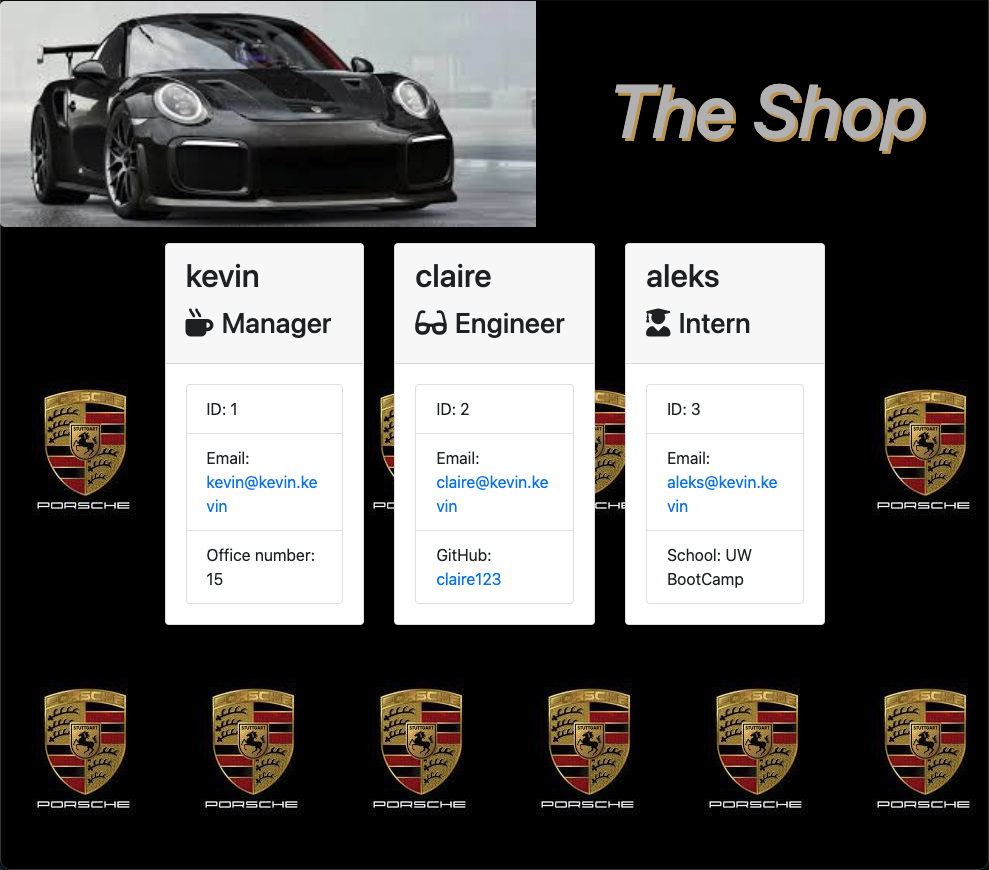
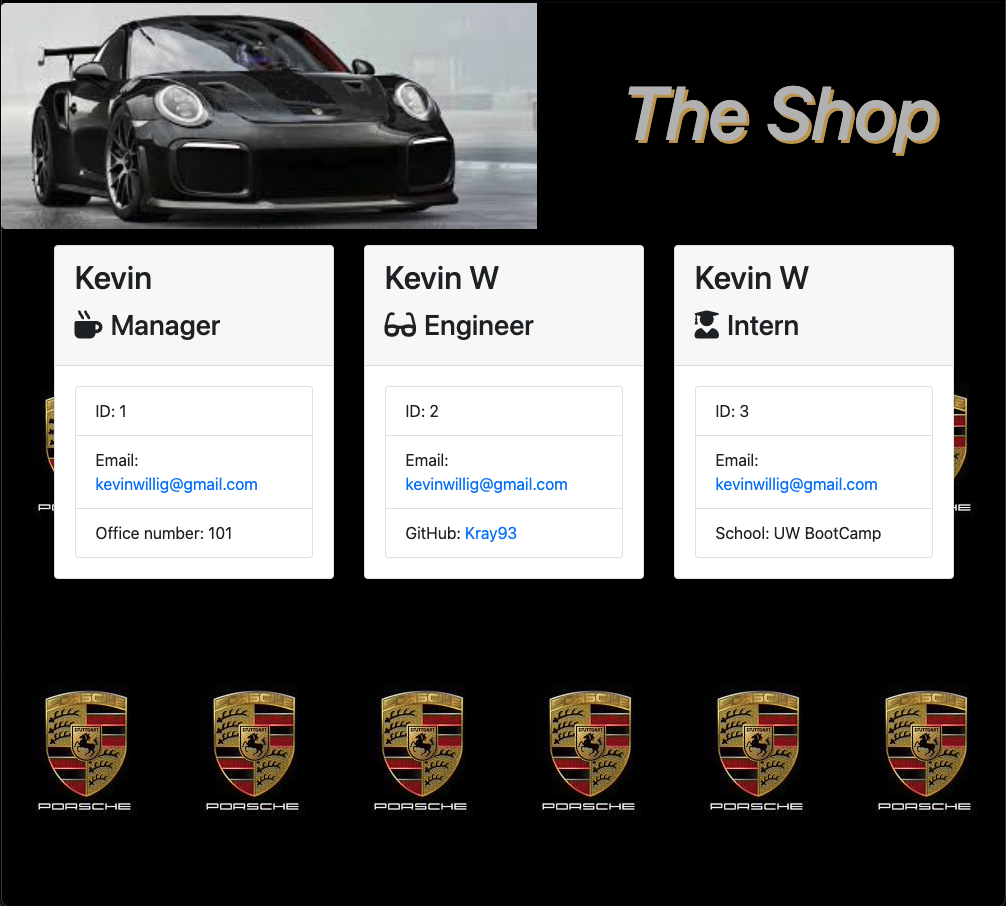
built readme and added pics

diff --git a/output/team.html b/output/team.html
@@ -1,0 +1,71 @@
+<!DOCTYPE html>
+<html lang="en">
+
+<head>
+    <meta charset="UTF-8" />
+    <meta name="viewport" content="width=device-width, initial-scale=1.0" />
+    <meta http-equiv="X-UA-Compatible" content="ie=edge" />
+    <title>My Team</title>
+    <link rel="stylesheet" href="https://stackpath.bootstrapcdn.com/bootstrap/4.3.1/css/bootstrap.min.css"
+        integrity="sha384-ggOyR0iXCbMQv3Xipma34MD+dH/1fQ784/j6cY/iJTQUOhcWr7x9JvoRxT2MZw1T" crossorigin="anonymous">
+    <link rel="stylesheet" href="style.css">
+    <script src="https://kit.fontawesome.com/c502137733.js"></script>
+</head>
+
+<body>
+    <div class="container-fluid">
+        <div class="row">
+            <div class="col-12 jumbotron mb-3 team-heading">
+                <h1 class="text-center">The Shop</h1>
+            </div>
+        </div>
+    </div>
+    <div class="container">
+        <div class="row">
+            <div class="team-area col-12 d-flex justify-content-center">
+                <div class="card employee-card">
+    <div class="card-header">
+        <h2 class="card-title">Kevin</h2>
+        <h3 class="card-title"><i class="fas fa-mug-hot mr-2"></i>Manager</h3>
+    </div>
+    <div class="card-body">
+        <ul class="list-group">
+            <li class="list-group-item">ID: 1</li>
+            <li class="list-group-item">Email: <a href="mailto:kevinwillig@gmail.com">kevinwillig@gmail.com</a></li>
+            <li class="list-group-item">Office number: 101</li>
+        </ul>
+    </div>
+</div>
+<div class="card employee-card">
+    <div class="card-header">
+        <h2 class="card-title">Kevin W</h2>
+        <h3 class="card-title"><i class="fas fa-glasses mr-2"></i>Engineer</h3>
+    </div>
+    <div class="card-body">
+        <ul class="list-group">
+            <li class="list-group-item">ID: 2</li>
+            <li class="list-group-item">Email: <a href="mailto:kevinwillig@gmail.com">kevinwillig@gmail.com</a></li>
+            <li class="list-group-item">GitHub: <a href="https://github.com/Kray93" target="_blank" rel="noopener noreferrer">Kray93</a></li>
+        </ul>
+    </div>
+</div>
+<div class="card employee-card">
+    <div class="card-header">
+        <h2 class="card-title">Kevin W</h2>
+        <h3 class="card-title"><i class="fas fa-user-graduate mr-2"></i>Intern</h3>
+    </div>
+    <div class="card-body">
+        <ul class="list-group">
+            <li class="list-group-item">ID: 3</li>
+            <li class="list-group-item">Email: <a href="mailto:kevinwillig@gmail.com">kevinwillig@gmail.com</a></li>
+            <li class="list-group-item">School: UW BootCamp</li>
+        </ul>
+    </div>
+</div>
+
+            </div>
+        </div>
+    </div>
+</body>
+
+</html>

diff --git a/README.md b/README.md
@@ -1,176 +1,18 @@
 # Employee-Summary
-# Unit 10 OOP Homework: Template Engine - Employee Summary
 
-One of the most important aspects of programming is writing code that is readable, reliable, and maintainable. Oftentimes, *how* we design our code is just as important as the code itself. In this homework assignment, your challenge is to build a Node CLI that takes in information about employees and generates an HTML webpage that displays summaries for each person. Since testing is a key piece in making code maintainable, you will also be ensuring that all unit tests pass.
+This app was designed to take in information about employees and generates an HTML webpage that displays summaries for each person so that an employer can easily track department employees.
 
+! [GIF]()
 
-## Instructions
+! [SS1]()
 
-You will build a software engineering team generator command line application. The application will prompt the user for information about the team manager and then information about the team members. The user can input any number of team members, and they may be a mix of engineers and interns. This assignment must also pass all unit tests. When the user has completed building the team, the application will create an HTML file that displays a nicely formatted team roster based on the information provided by the user. Following the [common templates for user stories](https://en.wikipedia.org/wiki/User_story#Common_templates), we can frame this challenge as follows:
+## Built With
 
-```
-As a manager
-I want to generate a webpage that displays my team's basic info
-so that I have quick access to emails and GitHub profiles
-```
+* [Inquirer](https://www.npmjs.com/package/inquirer#questions) - NPM download
+* [Jest](https://www.npmjs.com/package/jest) - NPM download
+* [node.js](https://www.npmjs.com/package/node.js) - NPM download
 
-How do you deliver this? Here are some guidelines:
+## Authors
 
-* Use the [Inquirer npm package](https://github.com/SBoudrias/Inquirer.js/) to prompt the user for their email, id, and specific information based on their role with the company. For instance, an intern may provide their school, whereas an engineer may provide their GitHub username.
-
-* Your app will run as a Node CLI to gather information about each employee.
-
-* Below is an example of what your application may look like. Remember, the styling is completely up to you so try to make it unique.
-
-![Employee Summary 1](./Assets/10-OOP-homework-demo-1.png)
-![Employee Summary 2](./Assets/10-OOP-homework-demo-2.png)
-
-In the `Develop` folder, there is a `package.json`, so make sure to `npm install`.
-
-The dependencies are, [jest](https://jestjs.io/) for running the provided tests, and [inquirer](https://www.npmjs.com/package/inquirer) for collecting input from the user.
-
-There are also unit tests to help you build the classes necessary.
-
-It is recommended that you follow this workflow:
-
-1. Run tests
-2. Create or update classes to pass a single test case
-3. Repeat
-
-🎗 Remember, you can run the tests at any time with `npm run test`
-
-It is recommended that you start with a directory structure that looks like this:
-
-```
-lib/           // classes and helper code
-output/        // rendered output
-templates/     // HTML template(s)
-test/          // jest tests
-  Employee.test.js
-  Engineer.test.js
-  Intern.test.js
-  Manager.test.js
-app.js         // Runs the application
-```
-
-### Hints
-
-* Create multiple HTML templates for each type of user. For example, you could use the following templates:
-
-  * `main.html`
-
-  * `engineer.html`
-  
-  * `intern.html`
-  
-  * `manager.html`
-
-* You will want to make your methods as pure as possible. This means try to make your methods simple so that they are easier to test.
-
-* The different employee types should all inherit some methods and properties from a base class of `Employee`.
-
-* In your HTML template files, you may want to add a placeholder character that helps your program identify where the dynamic markup begins and ends.
-
-## Minimum Requirements
-
-* Functional application.
-
-* GitHub repository with a unique name and a README describing the project.
-
-* User can use the CLI to generate an HTML page that displays information about their team.
-
-* All tests must pass.
-
-### Classes
-The project must have the these classes: `Employee`, `Manager`, `Engineer`,
-`Intern`. The tests for these classes in the `tests` directory must all pass.
-
-The first class is an `Employee` parent class with the following properties and
-methods:
-
-  * name
-  * id
-  * email
-  * getName()
-  * getId()
-  * getEmail()
-  * getRole() // Returns 'Employee'
-
-The other three classes will extend `Employee`. 
-
-In addition to `Employee`'s properties and methods, `Manager` will also have:
-
-  * officeNumber
-
-  * getRole() // Overridden to return 'Manager'
-
-In addition to `Employee`'s properties and methods, `Engineer` will also have:
-
-  * github  // GitHub username
-
-  * getGithub()
-
-  * getRole() // Overridden to return 'Engineer'
-
-In addition to `Employee`'s properties and methods, `Intern` will also have:
-
-  * school 
-
-  * getSchool()
-
-  * getRole() // Overridden to return 'Intern'
-
-### User input
-
-The project must prompt the user to build an engineering team. An engineering
-team consists of a manager, and any number of engineers and interns.
-
-### Roster output
-
-The project must generate a `team.html` page in the `output` directory, that displays a nicely formatted team roster. Each team member should display the following in no particular order:
-
-  * Name
-
-  * Role
-
-  * ID
-
-  * Role-specific property (School, link to GitHub profile, or office number)
-
-## Bonus
-
-* Use validation to ensure that the information provided is in the proper expected format.
-
-* Add the application to your portfolio.
-
-## Commit Early and Often
-
-One of the most important skills to master as a web developer is version control. Building the habit of committing via Git is important for two reasons:
-
-* Your commit history is a signal to employers that you are actively working on projects and learning new skills.
-
-* Your commit history allows you to revert your codebase in the event that you need to return to a previous state.
-
-Follow these guidelines for committing:
-
-* Make single-purpose commits for related changes to ensure a clean, manageable history. If you are fixing two issues, make two commits.
-
-* Write descriptive, meaningful commit messages so that you and anyone else looking at your repository can easily understand its history.
-
-* Don't commit half-done work, for the sake of your collaborators (and your future self!).
-
-* Test your application before you commit to ensure functionality at every step in the development process.
-
-We would like you to have well over 200 commits by graduation, so commit early and often!
-
-
-## Submission on BCS
-
-You are required to submit the following:
-
-* The URL of the GitHub repository
-
-* A video demonstrating the entirety of the app's functionality 
-
-- - -
-© 2021 Trilogy Education Services, LLC, a 2U, Inc. brand. Confidential and Proprietary. All Rights Reserved.
+* **Kevin Willig** - *Initial work* - [Kray93](https://github.com/Kray93)
+* [kevinwillig@gmail.com](mailto:kevinwillig@gmail.com)
